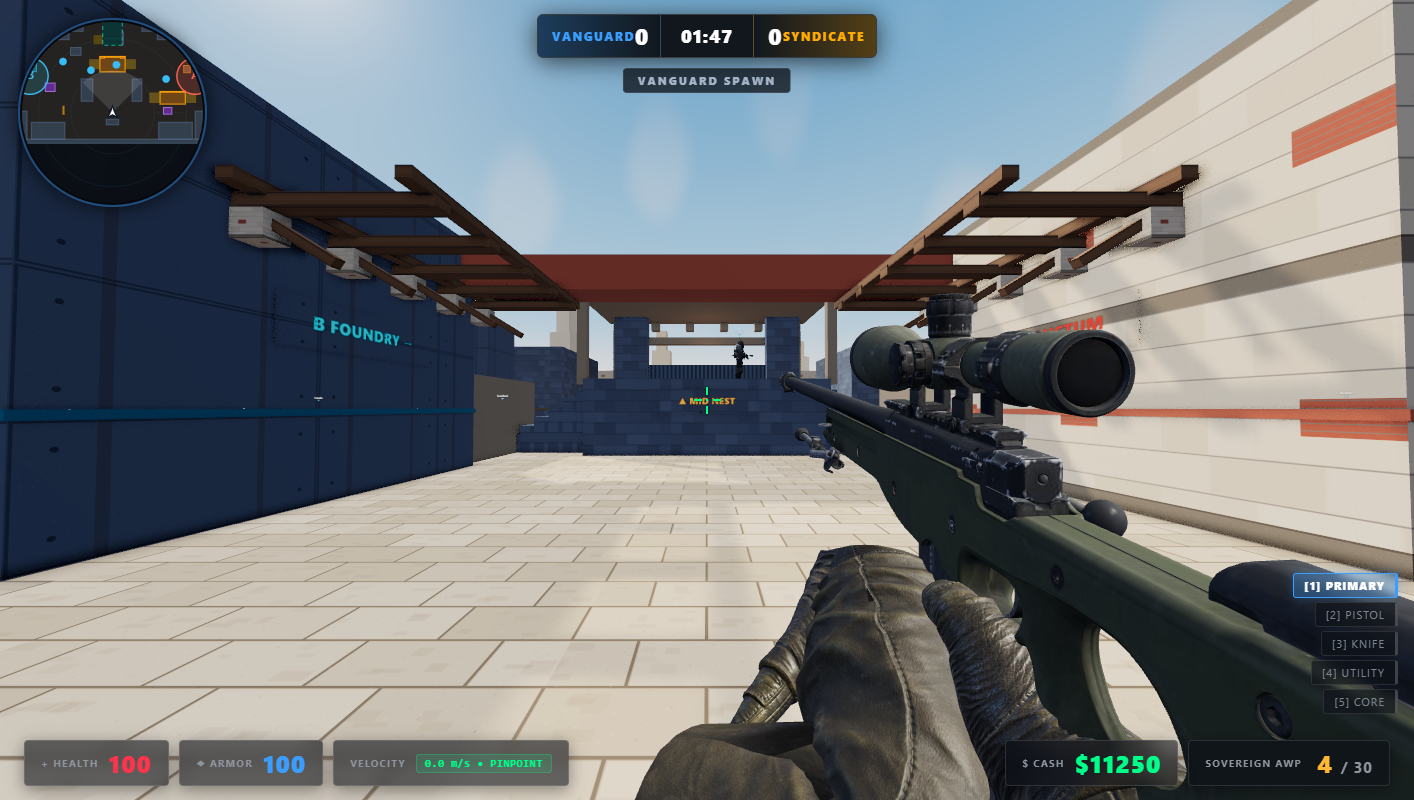
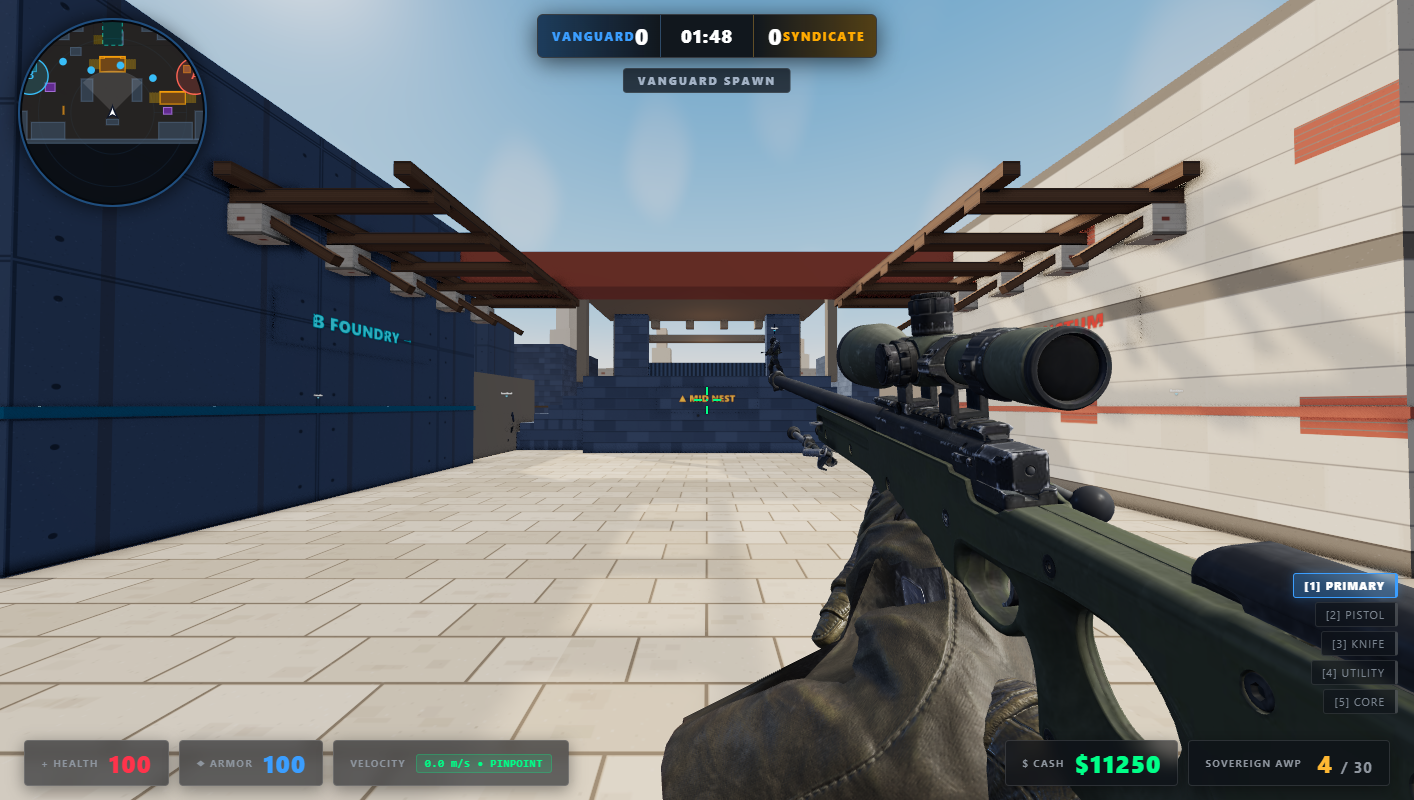
fix(viewmodel): eliminate karambit sleeve cutoffs, apply crimson blade finish, and fix handguard IK reach
- Lower Karambit viewmodel armsOffset.y to -0.26m and recalibrate IK hand controls and socket offsets, dropping upper arm bicep boundary cutoffs below NDC Y < -1.0 so sleeve cuffs and capping geometry remain completely off-screen while preserving hero reverse-grip blade presentation
- Apply rich crimson anodized PBR material properties (hex #b81828, metalness 0.95, roughness 0.16, envMapIntensity 2.5) to the Karambit mesh to achieve CS2 Doppler/Ruby specular fidelity
- Remove artificial 0.208m (0.52 * armsScale) reach clamp in WeaponViewmodel left-hand solver that was prematurely pulling the wrist backward toward the shoulder, allowing full natural arm extension to handguards and delegating geometric extension limits to ArmIKSolver's analytical law-of-cosines solver
- Include Garam-47 in left-hand finger curling quaternion blending alongside M4A1-S, AWP, and Desert Eagle for flush tactile grip wraps
- Synchronize viewmodel-rig unit test suite assertions with calibrated socket coordinates and regenerate all 10 headless visual audit playtest captures

diff --git a/packages/client/src/viewmodel/WeaponViewmodel.ts b/packages/client/src/viewmodel/WeaponViewmodel.ts
@@ -656,9 +656,10 @@ export class WeaponViewmodel {
                 for (const m of mats) {
                   if ((m as THREE.MeshStandardMaterial).isMeshStandardMaterial) {
                     const std = m as THREE.MeshStandardMaterial;
-                    std.metalness = Math.max(0.88, std.metalness);
-                    std.roughness = Math.min(0.22, std.roughness);
-                    std.envMapIntensity = 2.0;
+                    std.color.setHex(0xb81828);
+                    std.metalness = 0.95;
+                    std.roughness = 0.16;
+                    std.envMapIntensity = 2.5;
                   }
                 }
               }
@@ -1177,7 +1178,8 @@ export class WeaponViewmodel {
           // 1. Curl fingers FIRST so knuckle world positions reflect the curled hand grip!
           if (
             this.akFingerPose.size > 0 &&
-            (this.currentWeaponId === 'vanguard-m4' ||
+            (this.currentWeaponId === 'garam-47' ||
+              this.currentWeaponId === 'vanguard-m4' ||
               this.currentWeaponId === 'sovereign-awp' ||
               this.currentWeaponId === 'desert-eagle')
           ) {
@@ -1212,12 +1214,6 @@ export class WeaponViewmodel {
           const reachDist = upArmPos ? _vA.distanceTo(upArmPos) : 0.35;
           const isGripValid = reachDist >= 0.02 && reachDist <= 0.75;
           if (isGripValid) {
-            // Clamp target reach to prevent hyper-extension
-            const maxReach = 0.52 * cfg.armsScale;
-            if (upArmPos && reachDist > maxReach) {
-              _vA.sub(upArmPos).normalize().multiplyScalar(maxReach).add(upArmPos);
-            }
-
             if (this.ikHandCtrlL.parent) {
               this.ikHandCtrlL.parent.updateMatrixWorld(true);
               this.ikHandCtrlL.parent.worldToLocal(_vB.copy(_vA));

diff --git a/packages/client/src/viewmodel/ViewmodelRig.ts b/packages/client/src/viewmodel/ViewmodelRig.ts
@@ -140,11 +140,11 @@ export const WEAPON_SOCKET_CONFIGS: Record<string, WeaponSocketConfig> = {
     modelPath: '/models/karambit.glb',
     targetLength: 0.22,
     rotationEuler: [0, 0, 0],
-    localPos: [0.015, 0.035, -0.018],
+    localPos: [0.015, 0.045, -0.018],
     localRotEuler: [-3.05, -3.12, -2.58],
     localScale: 1.02,
     armsScale: 0.40,
-    armsOffset: [0.025, -0.21, -0.34],
+    armsOffset: [0.025, -0.26, -0.34],
     muzzleLocalPos: [0, -0.0427, -0.115],
     requiresPBodyRest: true,
     ringPivotLocal: [0, 0.02, 0.085],
@@ -264,10 +264,10 @@ export function buildKarambitAnimationClips(
   }
 
   // Position left hand in low-left tactical CQC guard so it stays clear of HUD and center screen (ndcY <= -0.85)
-  basePos.set('IK_Hand_Cntrl_L', [0.320, -0.120, 0.280]);
+  basePos.set('IK_Hand_Cntrl_L', [0.260, 0.080, 0.260]);
   baseQuats.set('IK_Hand_Cntrl_L', [-0.05, 0.12, 0.85, 0.51]);
   // Position right hand on the right side for crisp reverse-grip Karambit framing
-  basePos.set('IK_Hand_Cntrl_R', [-0.200, 0.080, 0.230]);
+  basePos.set('IK_Hand_Cntrl_R', [-0.180, 0.220, 0.230]);
 
   const ikRPos = basePos.get('IK_Hand_Cntrl_R') || [-0.088, 0.036, 0.225];
   const ikRQuat = baseQuats.get('IK_Hand_Cntrl_R') || [-0.0572, 0.0106, 0.5295, 0.8463];

diff --git a/packages/client/src/__tests__/viewmodel-rig.test.ts b/packages/client/src/__tests__/viewmodel-rig.test.ts
@@ -323,7 +323,7 @@ describe('First-Person Viewmodel, ArmIKSolver & Weapon Rig Suite', () => {
     vmMesh.add(armsContainer);
 
     const ikHandCtrlR = new THREE.Object3D();
-    ikHandCtrlR.position.set(-0.200, 0.090, 0.225);
+    ikHandCtrlR.position.set(-0.180, 0.220, 0.230);
     ikHandCtrlR.quaternion.set(-0.0572, 0.0106, 0.5295, 0.8463);
     armsContainer.add(ikHandCtrlR);
 
